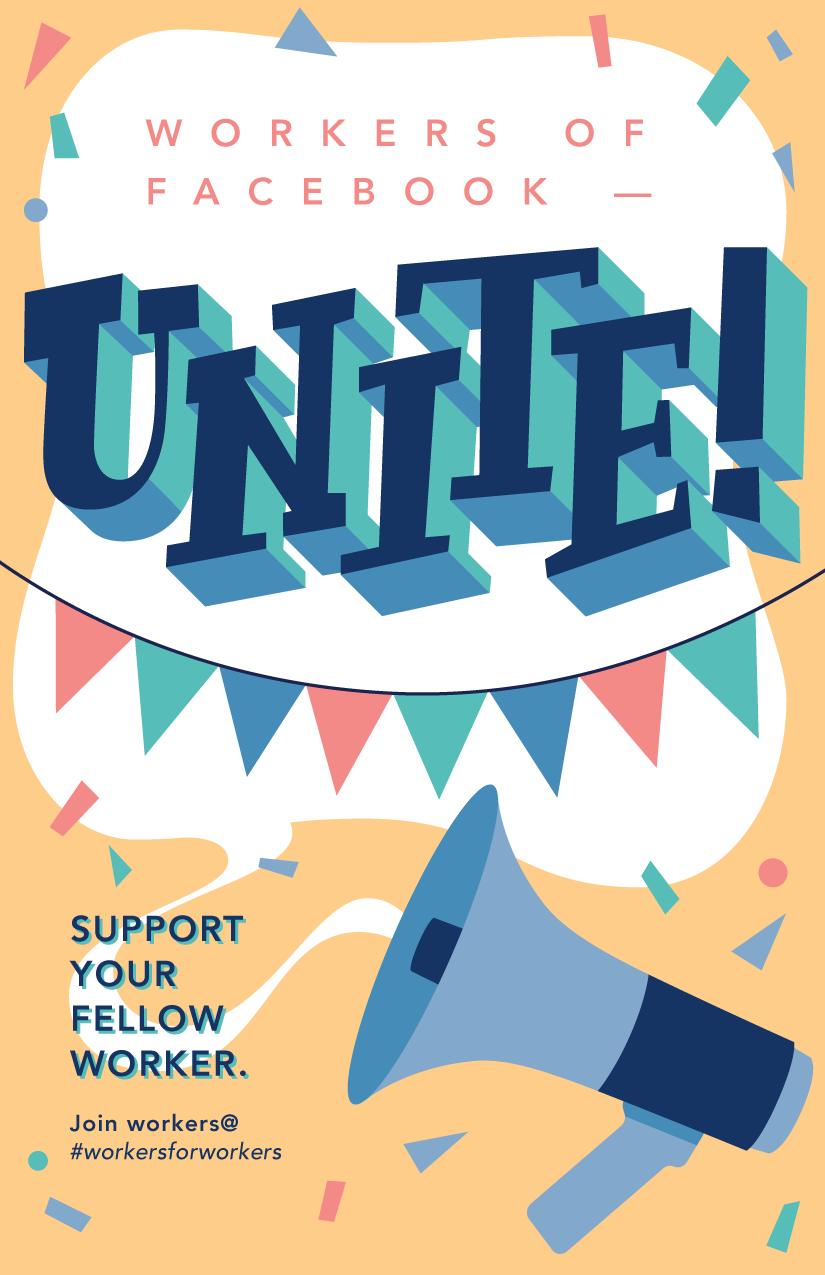
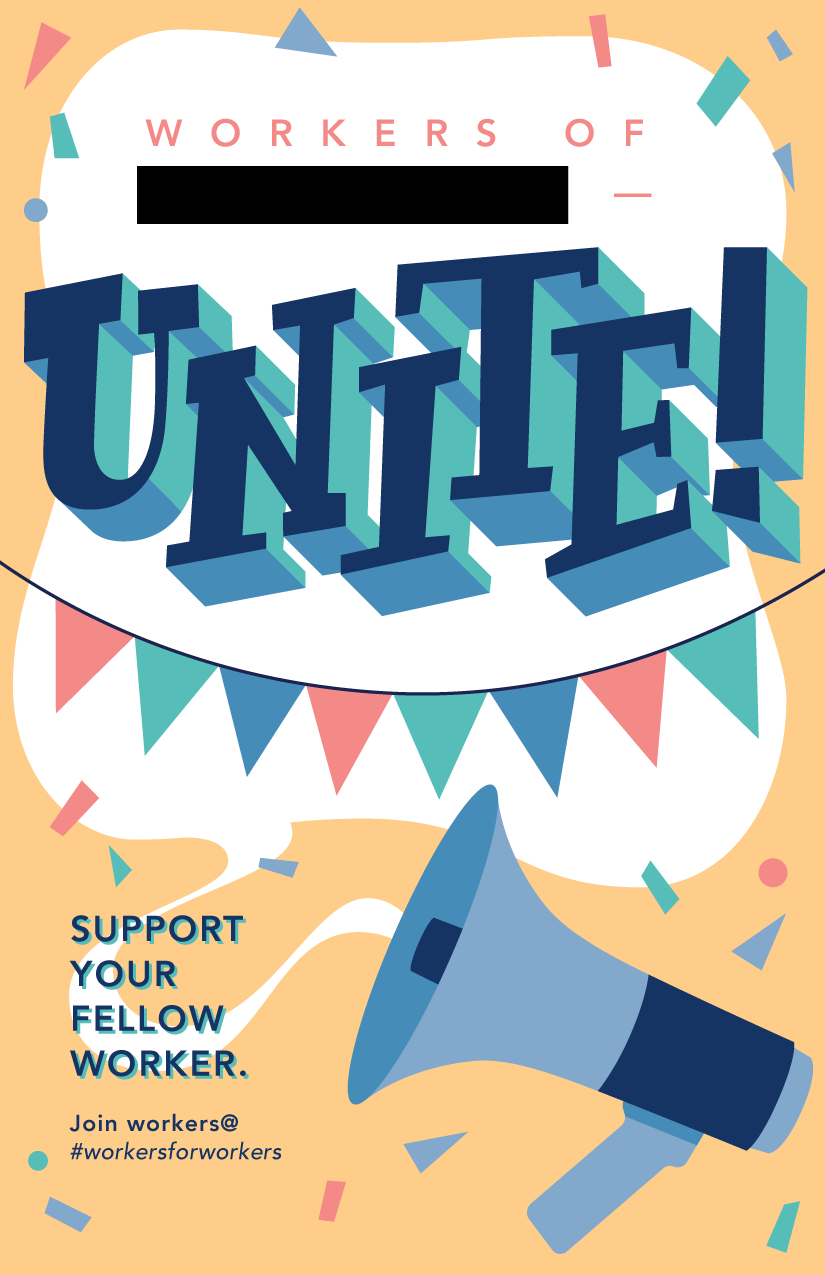
updated appropriate images

Changed region(s): [[0.1515, 0.1224, 0.697, 0.1835]]

diff --git a/project-extras.html b/project-extras.html
@@ -95,7 +95,7 @@
     <div class="container-sm container-3-2">
         <div>
             <h4>Workers for Workers</h4>
-            <p>As a practice in poster design, I made a few promotional posters for an internal group. The goal of the series was to inspire a sense of workplace unity and support, and many of these posters were displayed in office buildings in multiple locations.</p>
+            <p>As a practice in poster design, I made a few promotional posters for an internal group. The goal of the series was to inspire a sense of workplace unity and support, and many of these posters were displayed in office buildings in multiple locations. (The company name has been censored for privacy reasons.)</p>
         </div>
         <div><img src="img/extra-workers-00.png"></div>
     </div>
